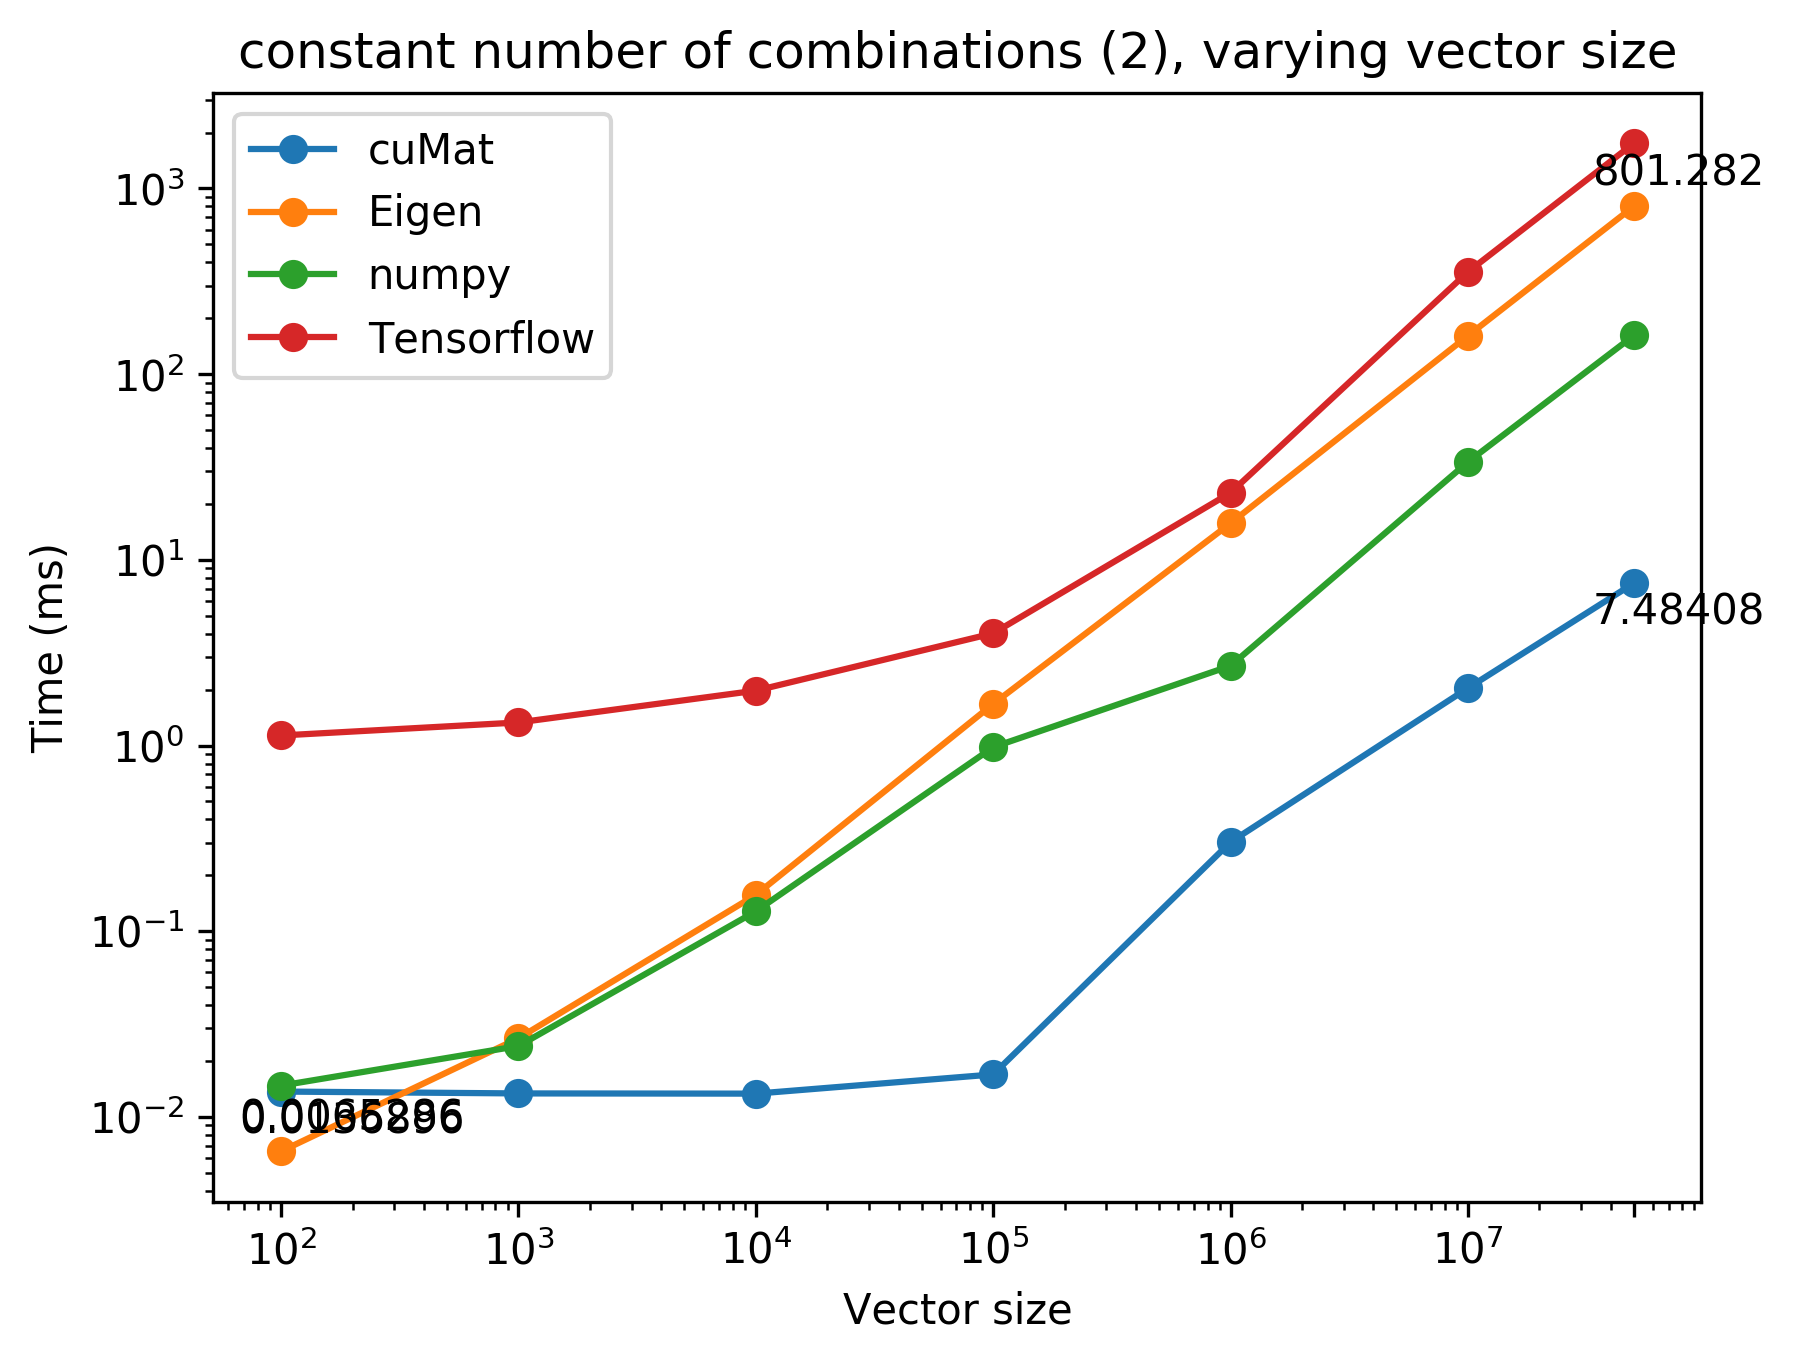
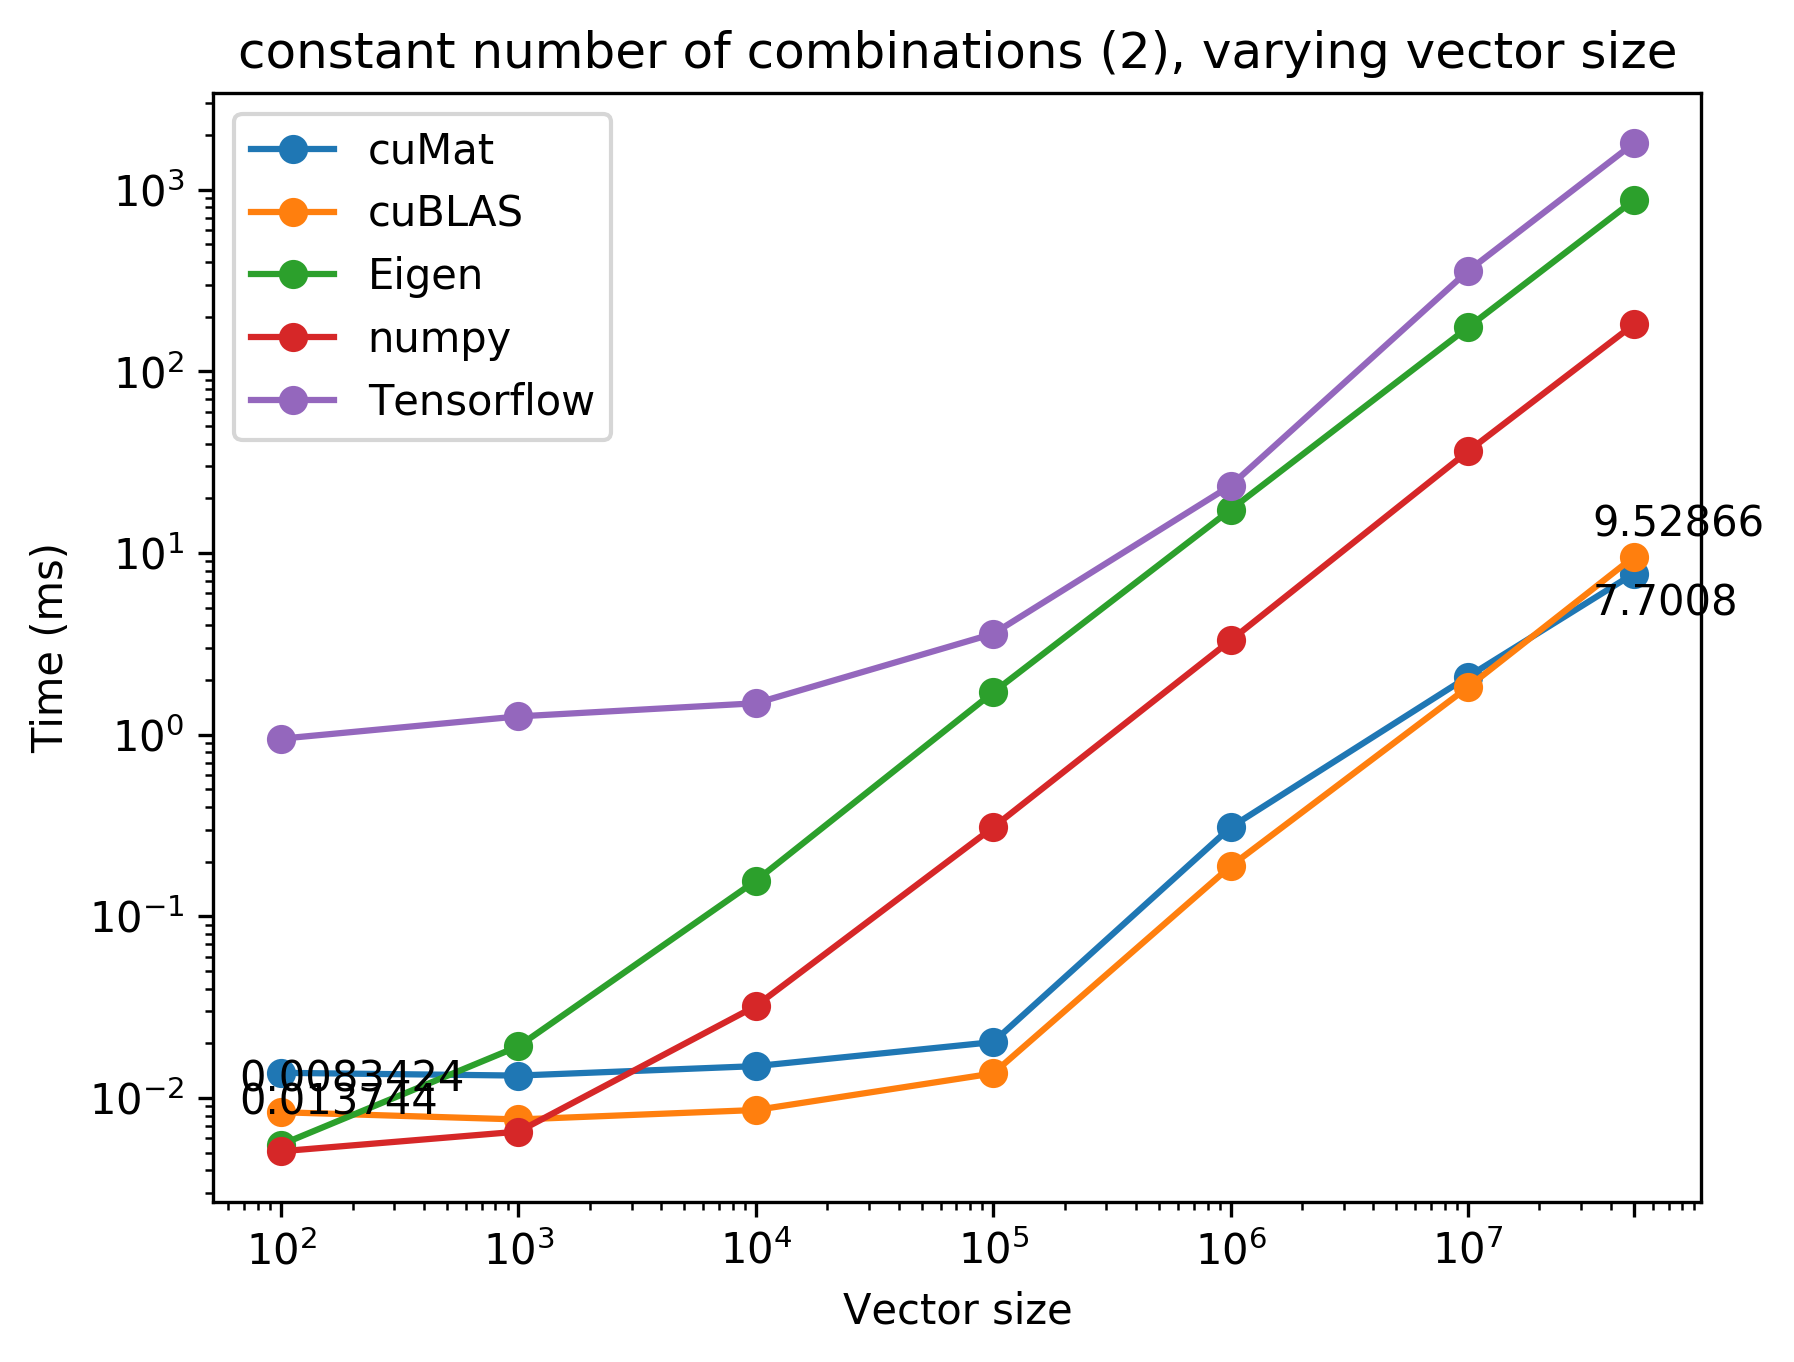
Added cuBLAS implementation of the linear combination benchmark

diff --git a/benchmarks/main.cpp b/benchmarks/main.cpp
@@ -68,6 +68,11 @@ int main(int argc, char* argv[])
         std::cout << " Run CuMat" << std::endl;
         Json::Array resultsCuMat;
         benchmark_cuMat(parameterNames, params, returnNames, resultsCuMat);
+        
+        //cuBlas
+        std::cout << " Run cuBLAS" << std::endl;
+        Json::Array resultsCuBlas;
+        benchmark_cuBlas(parameterNames, params, returnNames, resultsCuBlas);
 
         //Eigen
         std::cout << " Run Eigen" << std::endl;
@@ -93,6 +98,7 @@ int main(int argc, char* argv[])
         //write results
         Json::Object resultAssembled;
         resultAssembled.Insert(std::make_pair("CuMat", resultsCuMat));
+        resultAssembled.Insert(std::make_pair("CuBlas", resultsCuBlas));
         resultAssembled.Insert(std::make_pair("Eigen", resultsEigen));
         resultAssembled.Insert(std::make_pair("Numpy", resultsNumpy));
         resultAssembled.Insert(std::make_pair("Tensorflow", resultsTF));

diff --git a/benchmarks/linear_combination/MakePlots.py b/benchmarks/linear_combination/MakePlots.py
@@ -33,12 +33,13 @@ else:
 
 # now create the plot
 plt.plot(xdata, [d[0] for d in results["CuMat"]], '-o', label='cuMat')
+plt.plot(xdata, [d[0] for d in results["CuBlas"]], '-o', label='cuBLAS')
 plt.plot(xdata, [d[0] for d in results["Eigen"]], '-o', label='Eigen')
 plt.plot(xdata, [d[0] for d in results["Numpy"]], '-o', label='numpy')
 plt.plot(xdata[:len(results["Tensorflow"])], [d[0] for d in results["Tensorflow"]], '-o', label='Tensorflow')
 for i,j in zip([xdata[0], xdata[-1]],[results["CuMat"][0][0], results["CuMat"][-1][0]]):
     plt.annotate(str(j),xy=(i,j), xytext=(-10,-10), textcoords='offset points')
-for i,j in zip([xdata[0], xdata[-1]],[results["Eigen"][0][0], results["Eigen"][-1][0]]):
+for i,j in zip([xdata[0], xdata[-1]],[results["CuBlas"][0][0], results["CuBlas"][-1][0]]):
     plt.annotate(str(j),xy=(i,j), xytext=(-10,5), textcoords='offset points')
 plt.xscale(xscale)
 plt.yscale(yscale)

diff --git a/benchmarks/benchmark.h b/benchmarks/benchmark.h
@@ -22,6 +22,12 @@ void benchmark_cuMat(
     const Json::Array& parameters,
     const std::vector<std::string>& returnNames,
     Json::Array& returnValues);
+    
+void benchmark_cuBlas(
+    const std::vector<std::string>& parameterNames,
+    const Json::Array& parameters,
+    const std::vector<std::string>& returnNames,
+    Json::Array& returnValues);
 
 void benchmark_Eigen(
     const std::vector<std::string>& parameterNames,
